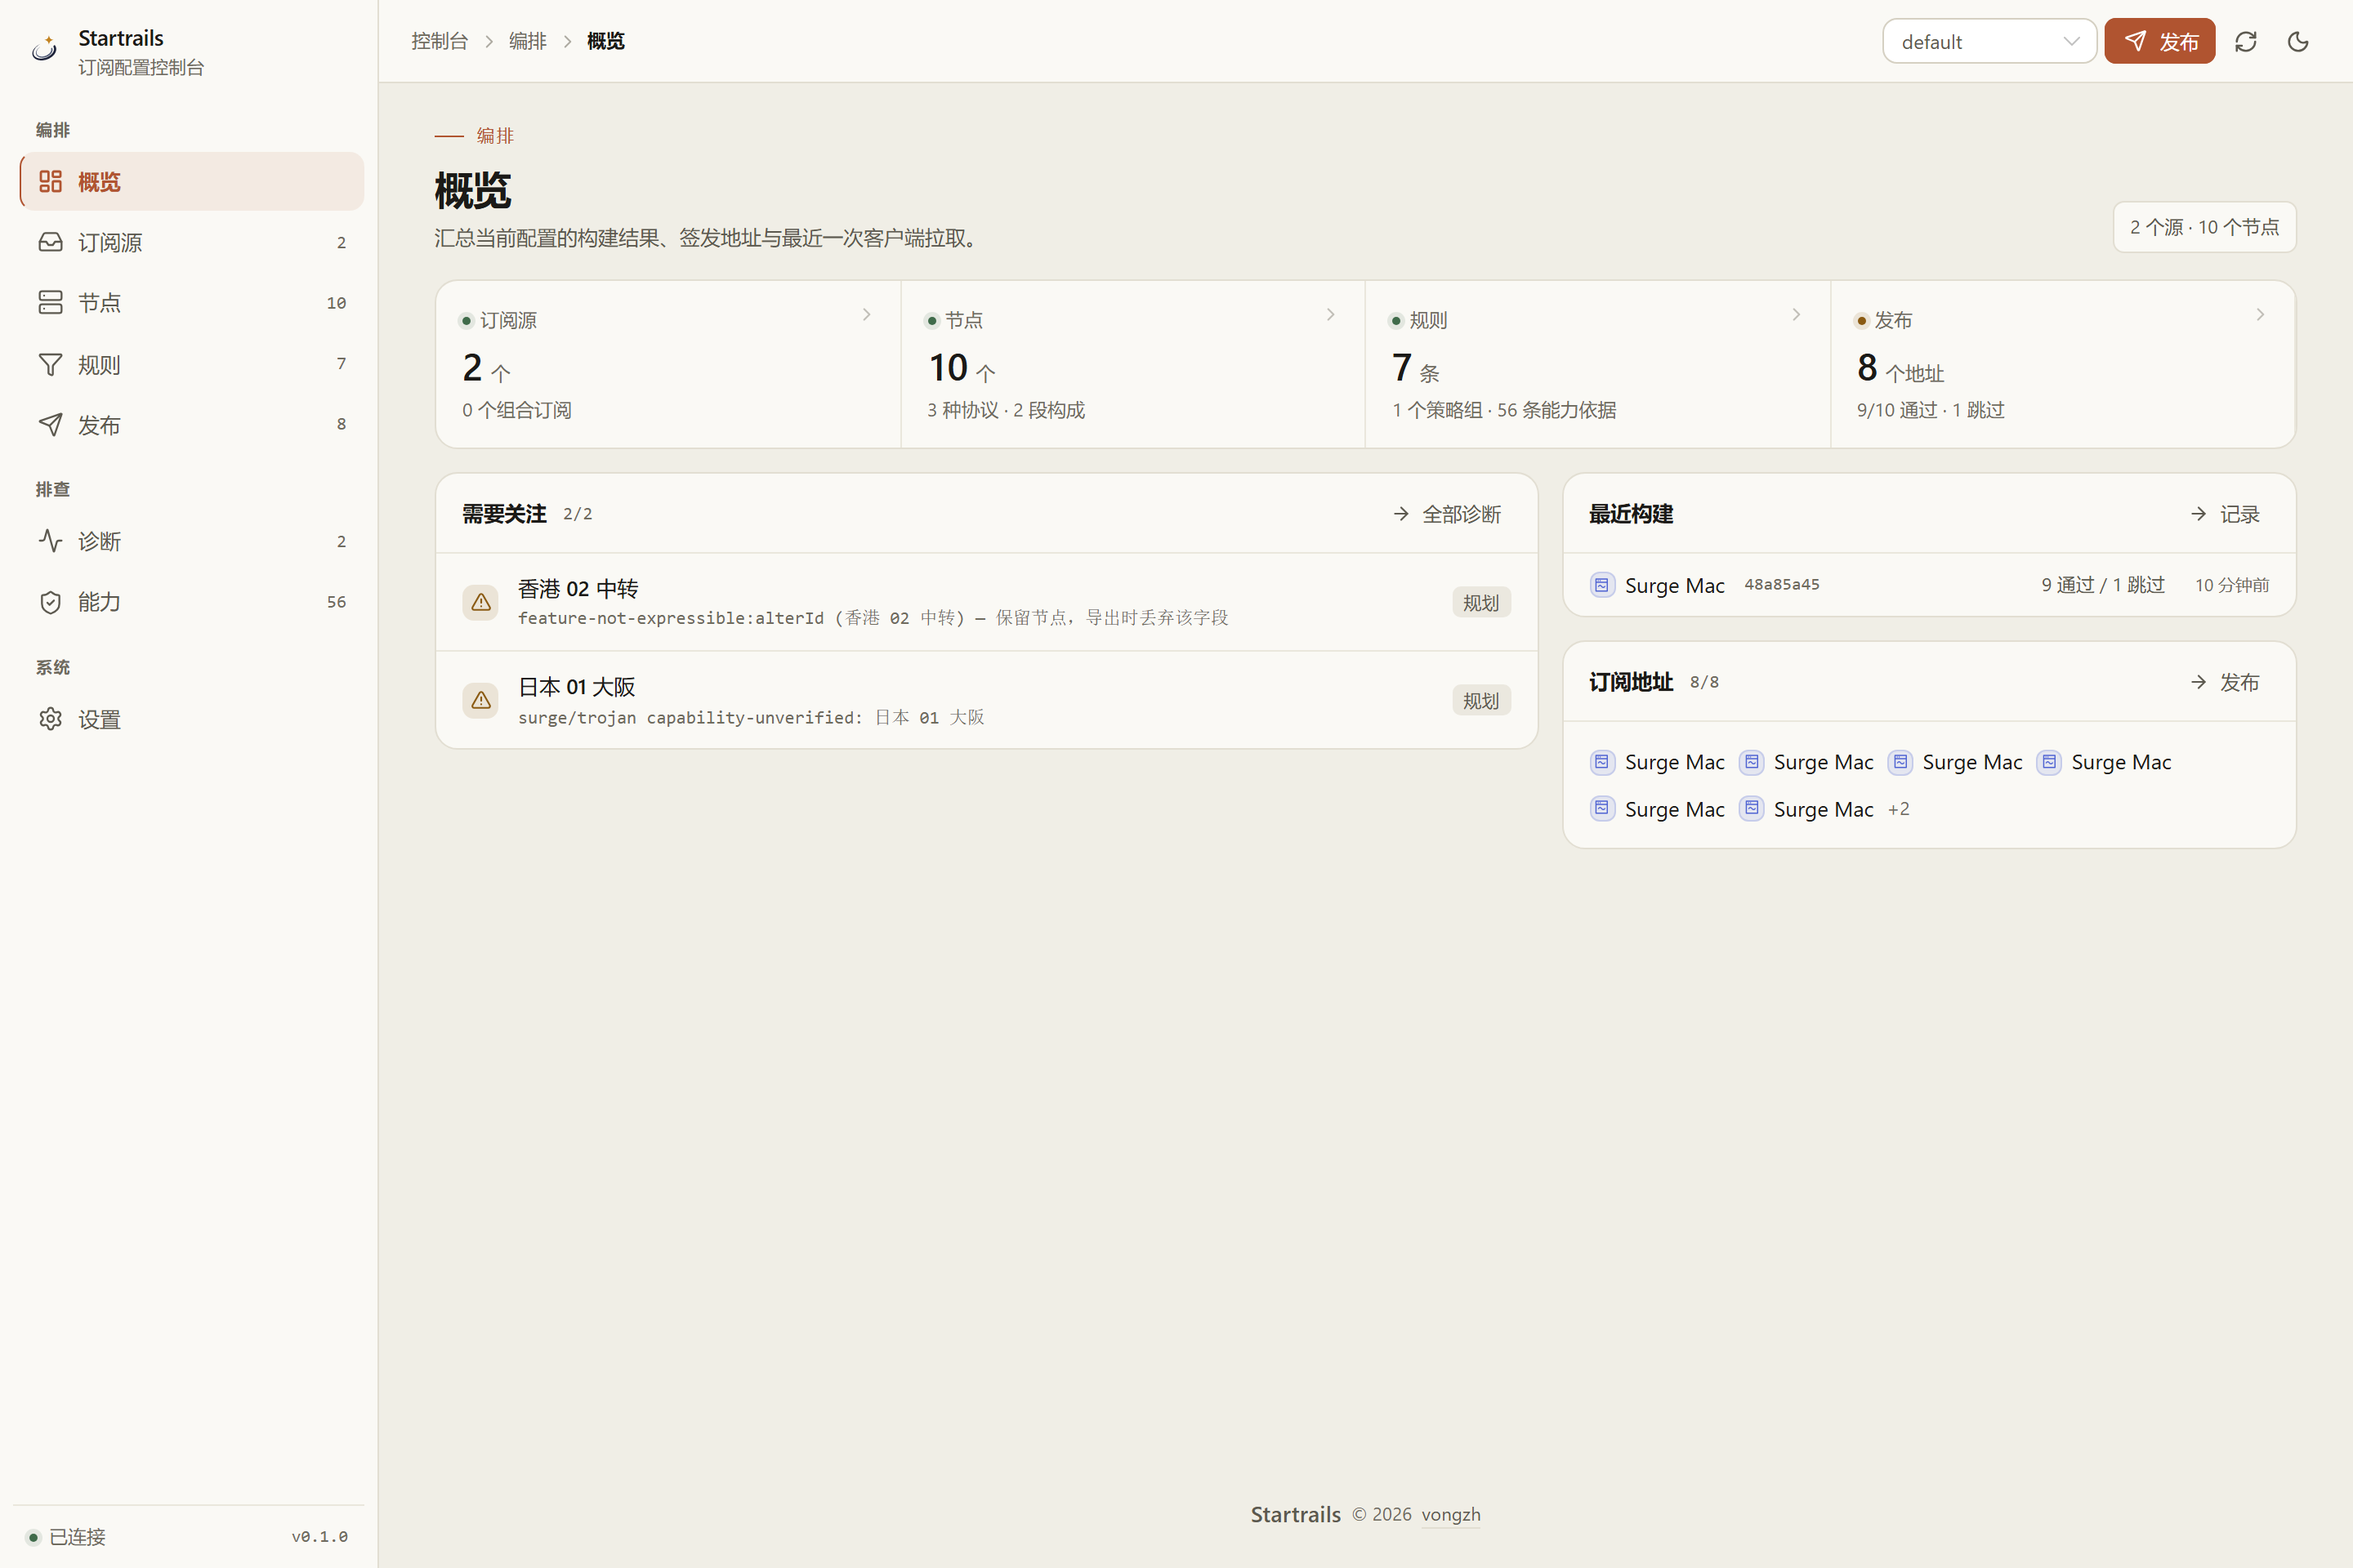
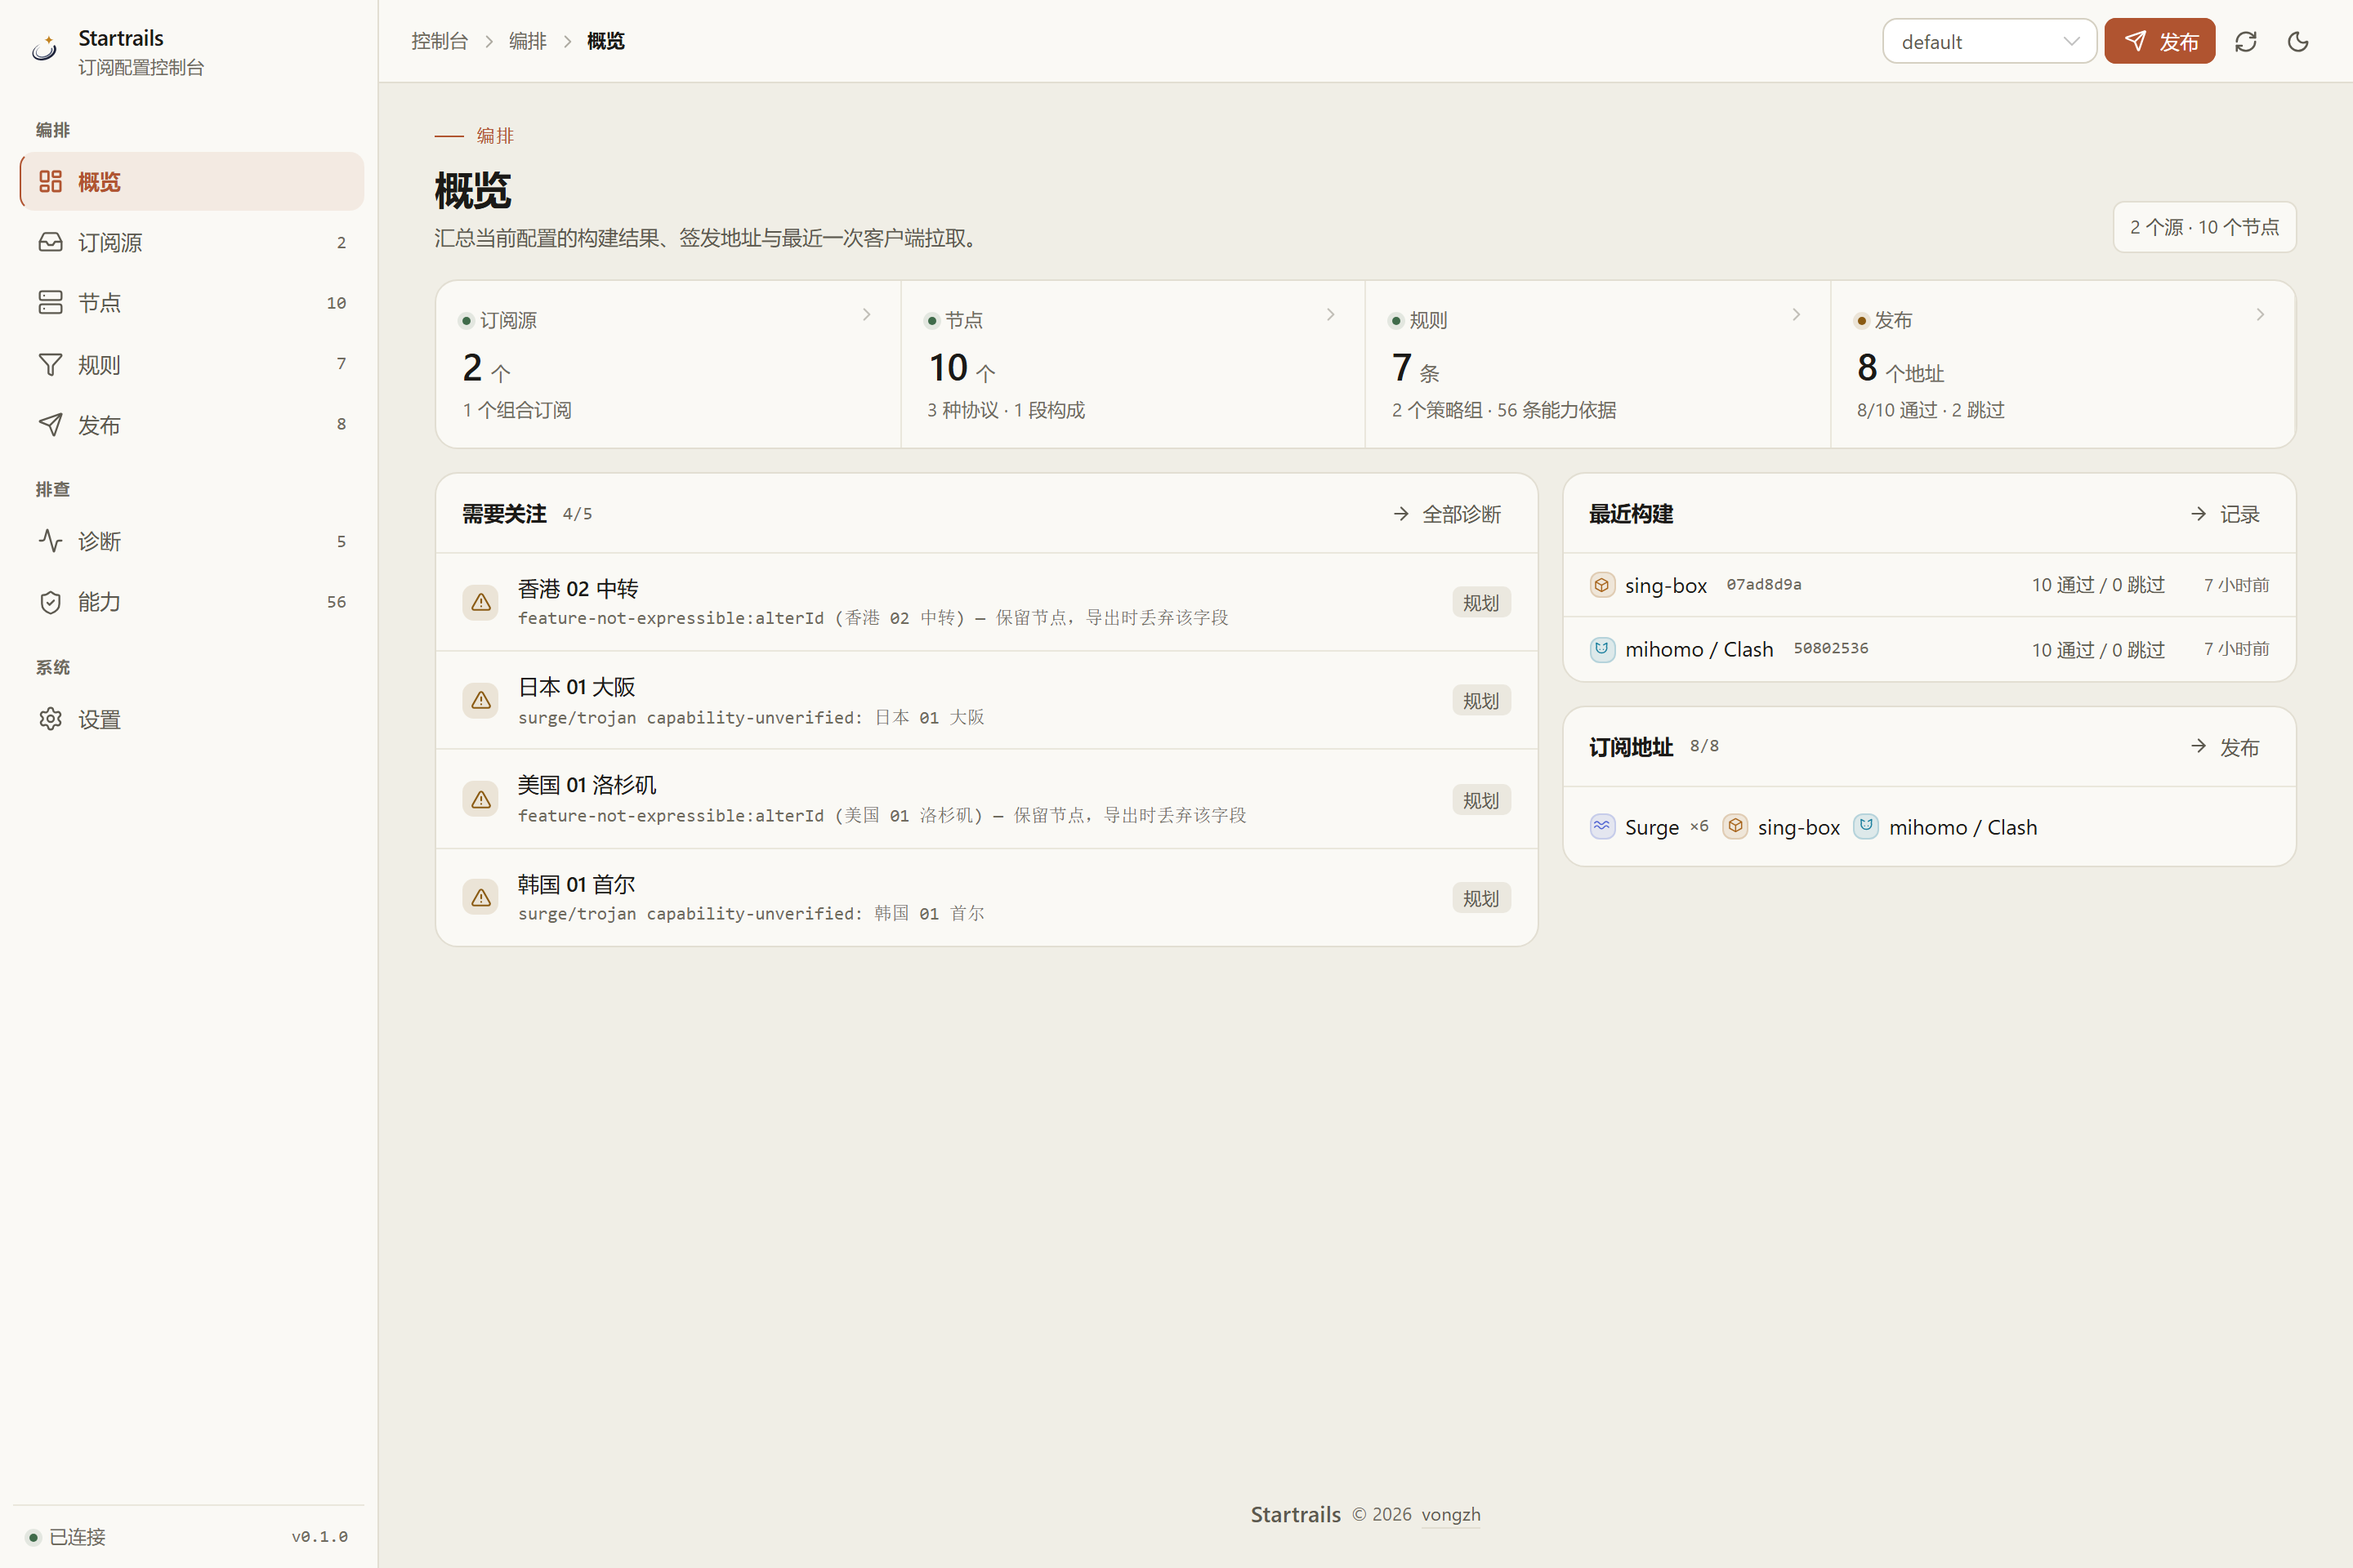
fix(ui): 能力矩阵表格溢出、订阅源状态列换行、订阅地址按客户端聚合
本地 podman 起真实实例逐页审出来的三处排版与语义问题：

- 能力矩阵： 「对象」列装的是最长 76 字符的斜杠清单（hysteria2: password/
  obfs/…），表格 auto 布局被这一条不可断的长 token 撑到 1231px，1440 视口下
  「依据」列被切掉约 100px。允许它在必要处断行后整表回到 1128px；窄屏那份
  副本（.addr-mobile）同样补断行，390 下从 512px 收到 364px 不再横向溢出
- 订阅源： 状态格的圆点是 .row 里的 flex 项，默认 flex-wrap: wrap，被「N
  节点」的文字挤出换行，圆点单独占一行、行高 40 → 49。状态是单行信号，
  强制 nowrap（窄屏那段本来就这么写）
- 总览「订阅地址」： 同一客户端可签出多条地址，原来渲染成 6 个一模一样的
  「Surge」标签，什么也说明不了。改为按客户端聚合并带 ×N 计数
- docs/screenshots/overview.png 按修好后的界面重截（README 首图）

diff --git a/web/src/views/OverviewView.vue b/web/src/views/OverviewView.vue
@@ -23,6 +23,23 @@ import {
 
 const tokens = computed(() => state.value?.tokens ?? []);
 const activeTokens = computed(() => tokens.value.filter((item) => !item.revoked));
+/**
+ * 同一客户端可以签出多条地址（发布弹窗会提示「已有 N 条，再生成不会让旧的失效」），
+ * 所以这里按客户端聚合：6 条 Surge 显示成「Surge ×6」，而不是 6 个一模一样的标签。
+ * 标签本身不可点击，合并不会丢操作。
+ */
+const tokenGroups = computed(() => {
+  const order: string[] = [];
+  const counts = new Map<string, number>();
+  for (const item of activeTokens.value) {
+    if (!counts.has(item.target)) {
+      counts.set(item.target, 0);
+      order.push(item.target);
+    }
+    counts.set(item.target, (counts.get(item.target) ?? 0) + 1);
+  }
+  return order.map((target) => ({ target, count: counts.get(target) ?? 0 }));
+});
 const kinds = computed(() => new Set(nodes.value.map((node) => node.kind)).size);
 const sourceErrors = computed(() => sources.value.filter((item) => item.enabled === false).length);
 const build = computed(() => {
@@ -290,12 +307,13 @@ const pipeline = computed(() => [
               </template>
             </n-empty>
             <div v-else class="row" style="gap: 8px; flex-wrap: wrap; padding: 14px 0">
-              <span v-for="token in activeTokens.slice(0, 6)" :key="token.id" class="client-pill">
-                <ClientIcon :id="token.target" size="xs" />
-                <span>{{ clientNameOf(token.target) }}</span>
+              <span v-for="group in tokenGroups.slice(0, 6)" :key="group.target" class="client-pill">
+                <ClientIcon :id="group.target" size="xs" />
+                <span>{{ clientNameOf(group.target) }}</span>
+                <span v-if="group.count > 1" class="text-3 mono" style="font-size: 11px">×{{ group.count }}</span>
               </span>
-              <span v-if="activeTokens.length > 6" class="text-3" style="font-size: 11.5px">
-                +{{ activeTokens.length - 6 }}
+              <span v-if="tokenGroups.length > 6" class="text-3" style="font-size: 11.5px">
+                +{{ tokenGroups.length - 6 }}
               </span>
             </div>
           </div>

diff --git a/web/src/views/CapabilitiesView.vue b/web/src/views/CapabilitiesView.vue
@@ -123,11 +123,11 @@ function sourceOf(item: { source: string }): string {
                   <ClientIcon :id="item.target" size="xs" />
                   <span>{{ clientNameOf(item.target) }}</span>
                 </span>
-                <div class="addr-mobile">{{ item.subject }}<template v-if="item.scope !== 'node'"> · {{ item.scope }}</template></div>
-                <div class="addr-mobile" style="white-space: normal; line-height: 1.5">{{ item.note }}</div>
+                <div class="addr-mobile subject-cell">{{ item.subject }}<template v-if="item.scope !== 'node'"> · {{ item.scope }}</template></div>
+                <div class="addr-mobile" style="white-space: normal; line-height: 1.5; overflow-wrap: anywhere">{{ item.note }}</div>
               </td>
               <td class="text-3 col-optional" style="font-size: 12px">{{ item.scope }}</td>
-              <td class="mono col-wide-only">{{ item.subject }}</td>
+              <td class="mono col-wide-only subject-cell">{{ item.subject }}</td>
               <td>
                 <n-tag size="small" :type="VALUE_TONE[item.value] ?? 'default'" :bordered="false">
                   {{ VALUE_LABELS[item.value] ?? item.value }}
@@ -155,3 +155,15 @@ function sourceOf(item: { source: string }): string {
     </section>
   </div>
 </template>
+
+<style scoped>
+/* 「对象」列装的是斜杠分隔的字段清单（最长 76 个字符，如 hysteria2: password/obfs/
+   obfs-password/up/down/ports/hop-interval），比声明的 190px 宽出一倍多。
+   表格是 auto 布局，一个不可断的长 token 会把整表撑到 1231px，1440 视口下
+   「依据」列被切掉约 100px，而横向滚动条在 56 行之后基本没人会去用。
+   这里允许它在必要处断行：宁可多占两行，也不让依据列被静默裁掉。 */
+.subject-cell {
+  white-space: normal;
+  overflow-wrap: anywhere;
+}
+</style>

diff --git a/web/src/views/SourcesView.vue b/web/src/views/SourcesView.vue
@@ -762,7 +762,10 @@ const derivedNodes = computed(() =>
               <td class="col-optional" style="width: 1%; white-space: nowrap">
                 <n-tooltip trigger="hover" :disabled="source.lastError === null">
                   <template #trigger>
-                    <span class="row tight" style="gap: 6px">
+                    <!-- .row 默认 flex-wrap: wrap；这一格宽度由「N 节点」的文字撑出来，
+                         一旦允许换行，圆点会单独占一行、行高从 40 涨到 49。状态是单行信号，
+                         这里强制不换行。 -->
+                    <span class="row tight" style="gap: 6px; flex-wrap: nowrap">
                       <span class="dot" :class="sourceStatus(source.id).kind"></span>
                       <span class="text-2" style="font-size: 12px">{{ sourceStatus(source.id).text }}</span>
                     </span>
